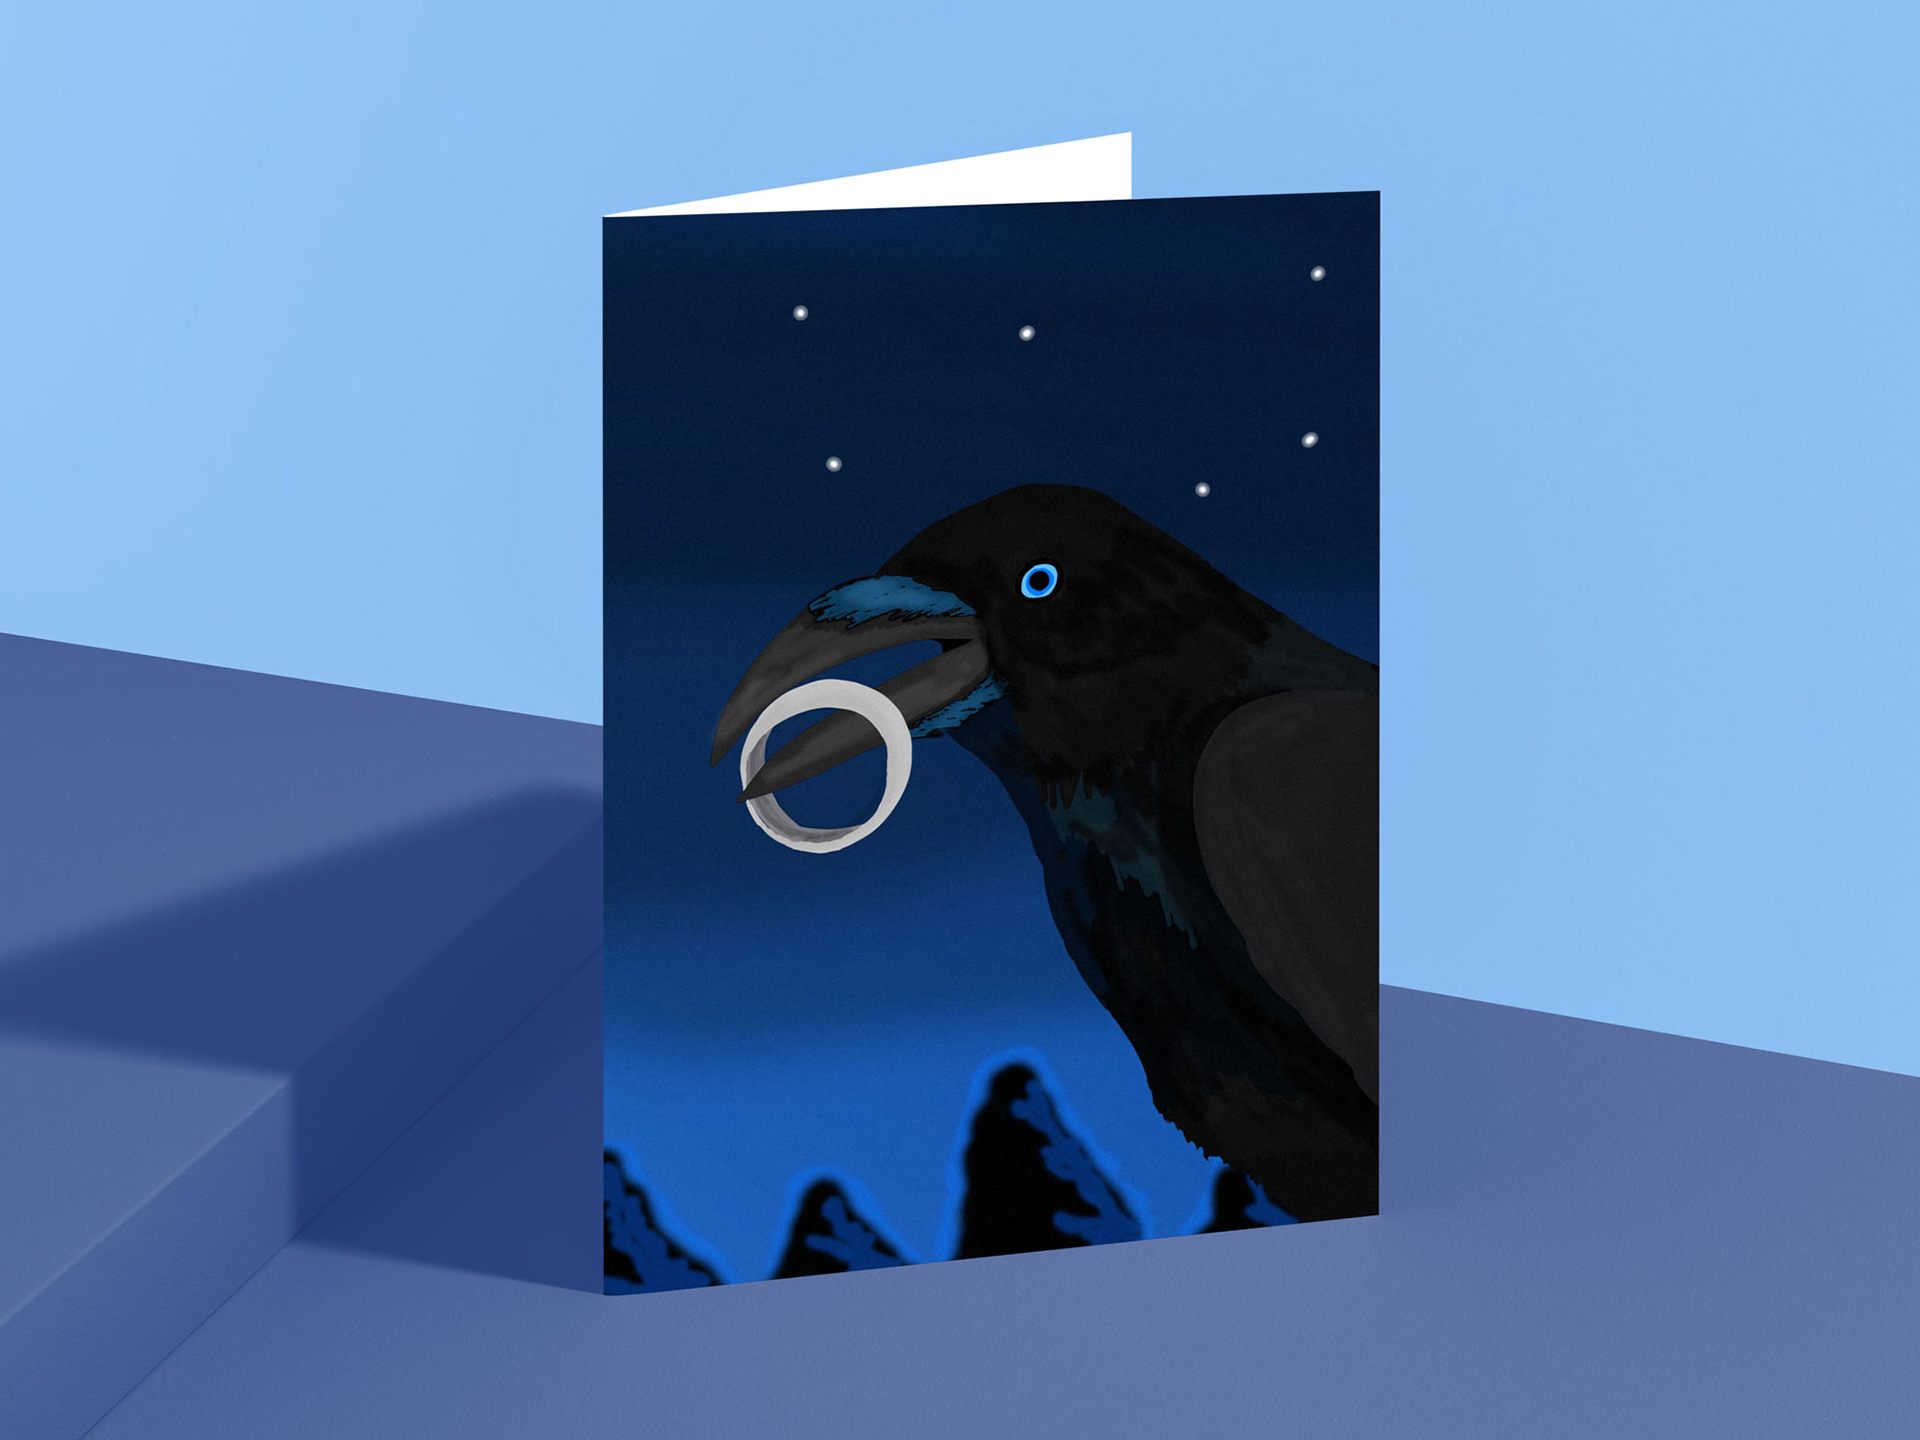
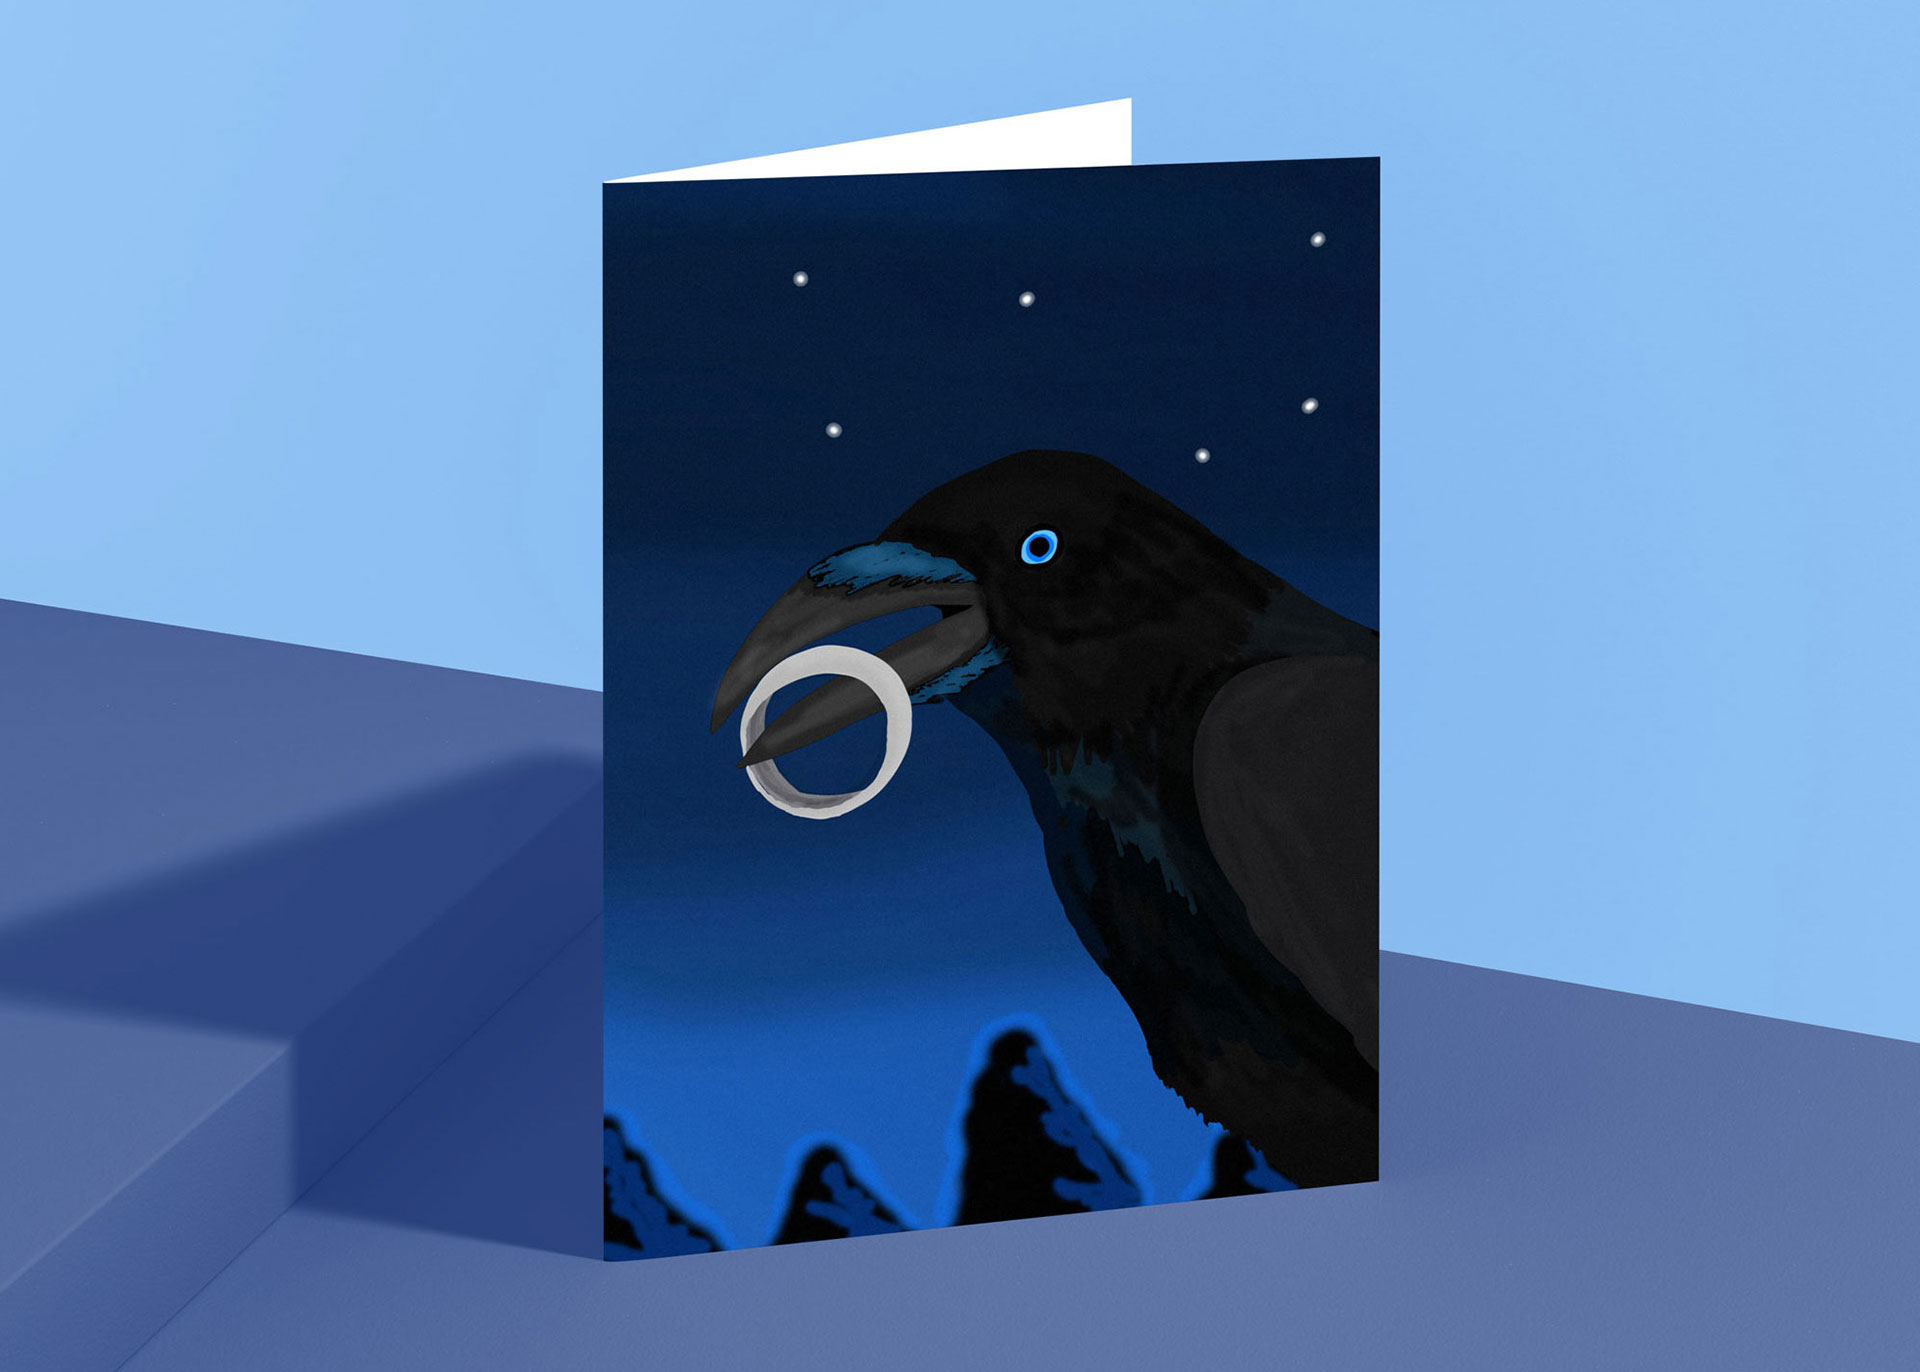
images updated

diff --git a/src/components/Gallery3.jsx b/src/components/Gallery3.jsx
@@ -49,18 +49,18 @@ const Gallery3 = () => {
       images: [
         {
           src: "/images/art-gallery3/art3_6.jpg",
-          alt: "DCC Eastern Adventures Character Sheet"
+          alt: "Holiday Card Mock up"
         },
         {
           src: "/images/art-gallery3/art3_7.jpg",
-          alt: "Labrynth Lord Character Sheet"
+          alt: "Holiday Card Mock up"
         },
         {
           src: "/images/art-gallery3/art3_8.jpg",
-          alt: "DCC Greenleaf Adventures Character Sheet"
+          alt: "Pair of Crows, a Ring and the UAP"
         }
       ],
-      description: "Created with a digital pen in Photoshop, these Role-Playing Game character sheet have been design to capture the 'Old School' pencil-and-paper style of the early days of the RPG hobby."
+      description: "Pair of Crows: The Digital Illustrations were hand drawn with a digital pen in Adobe Photoshop."
     },
   ];
 
